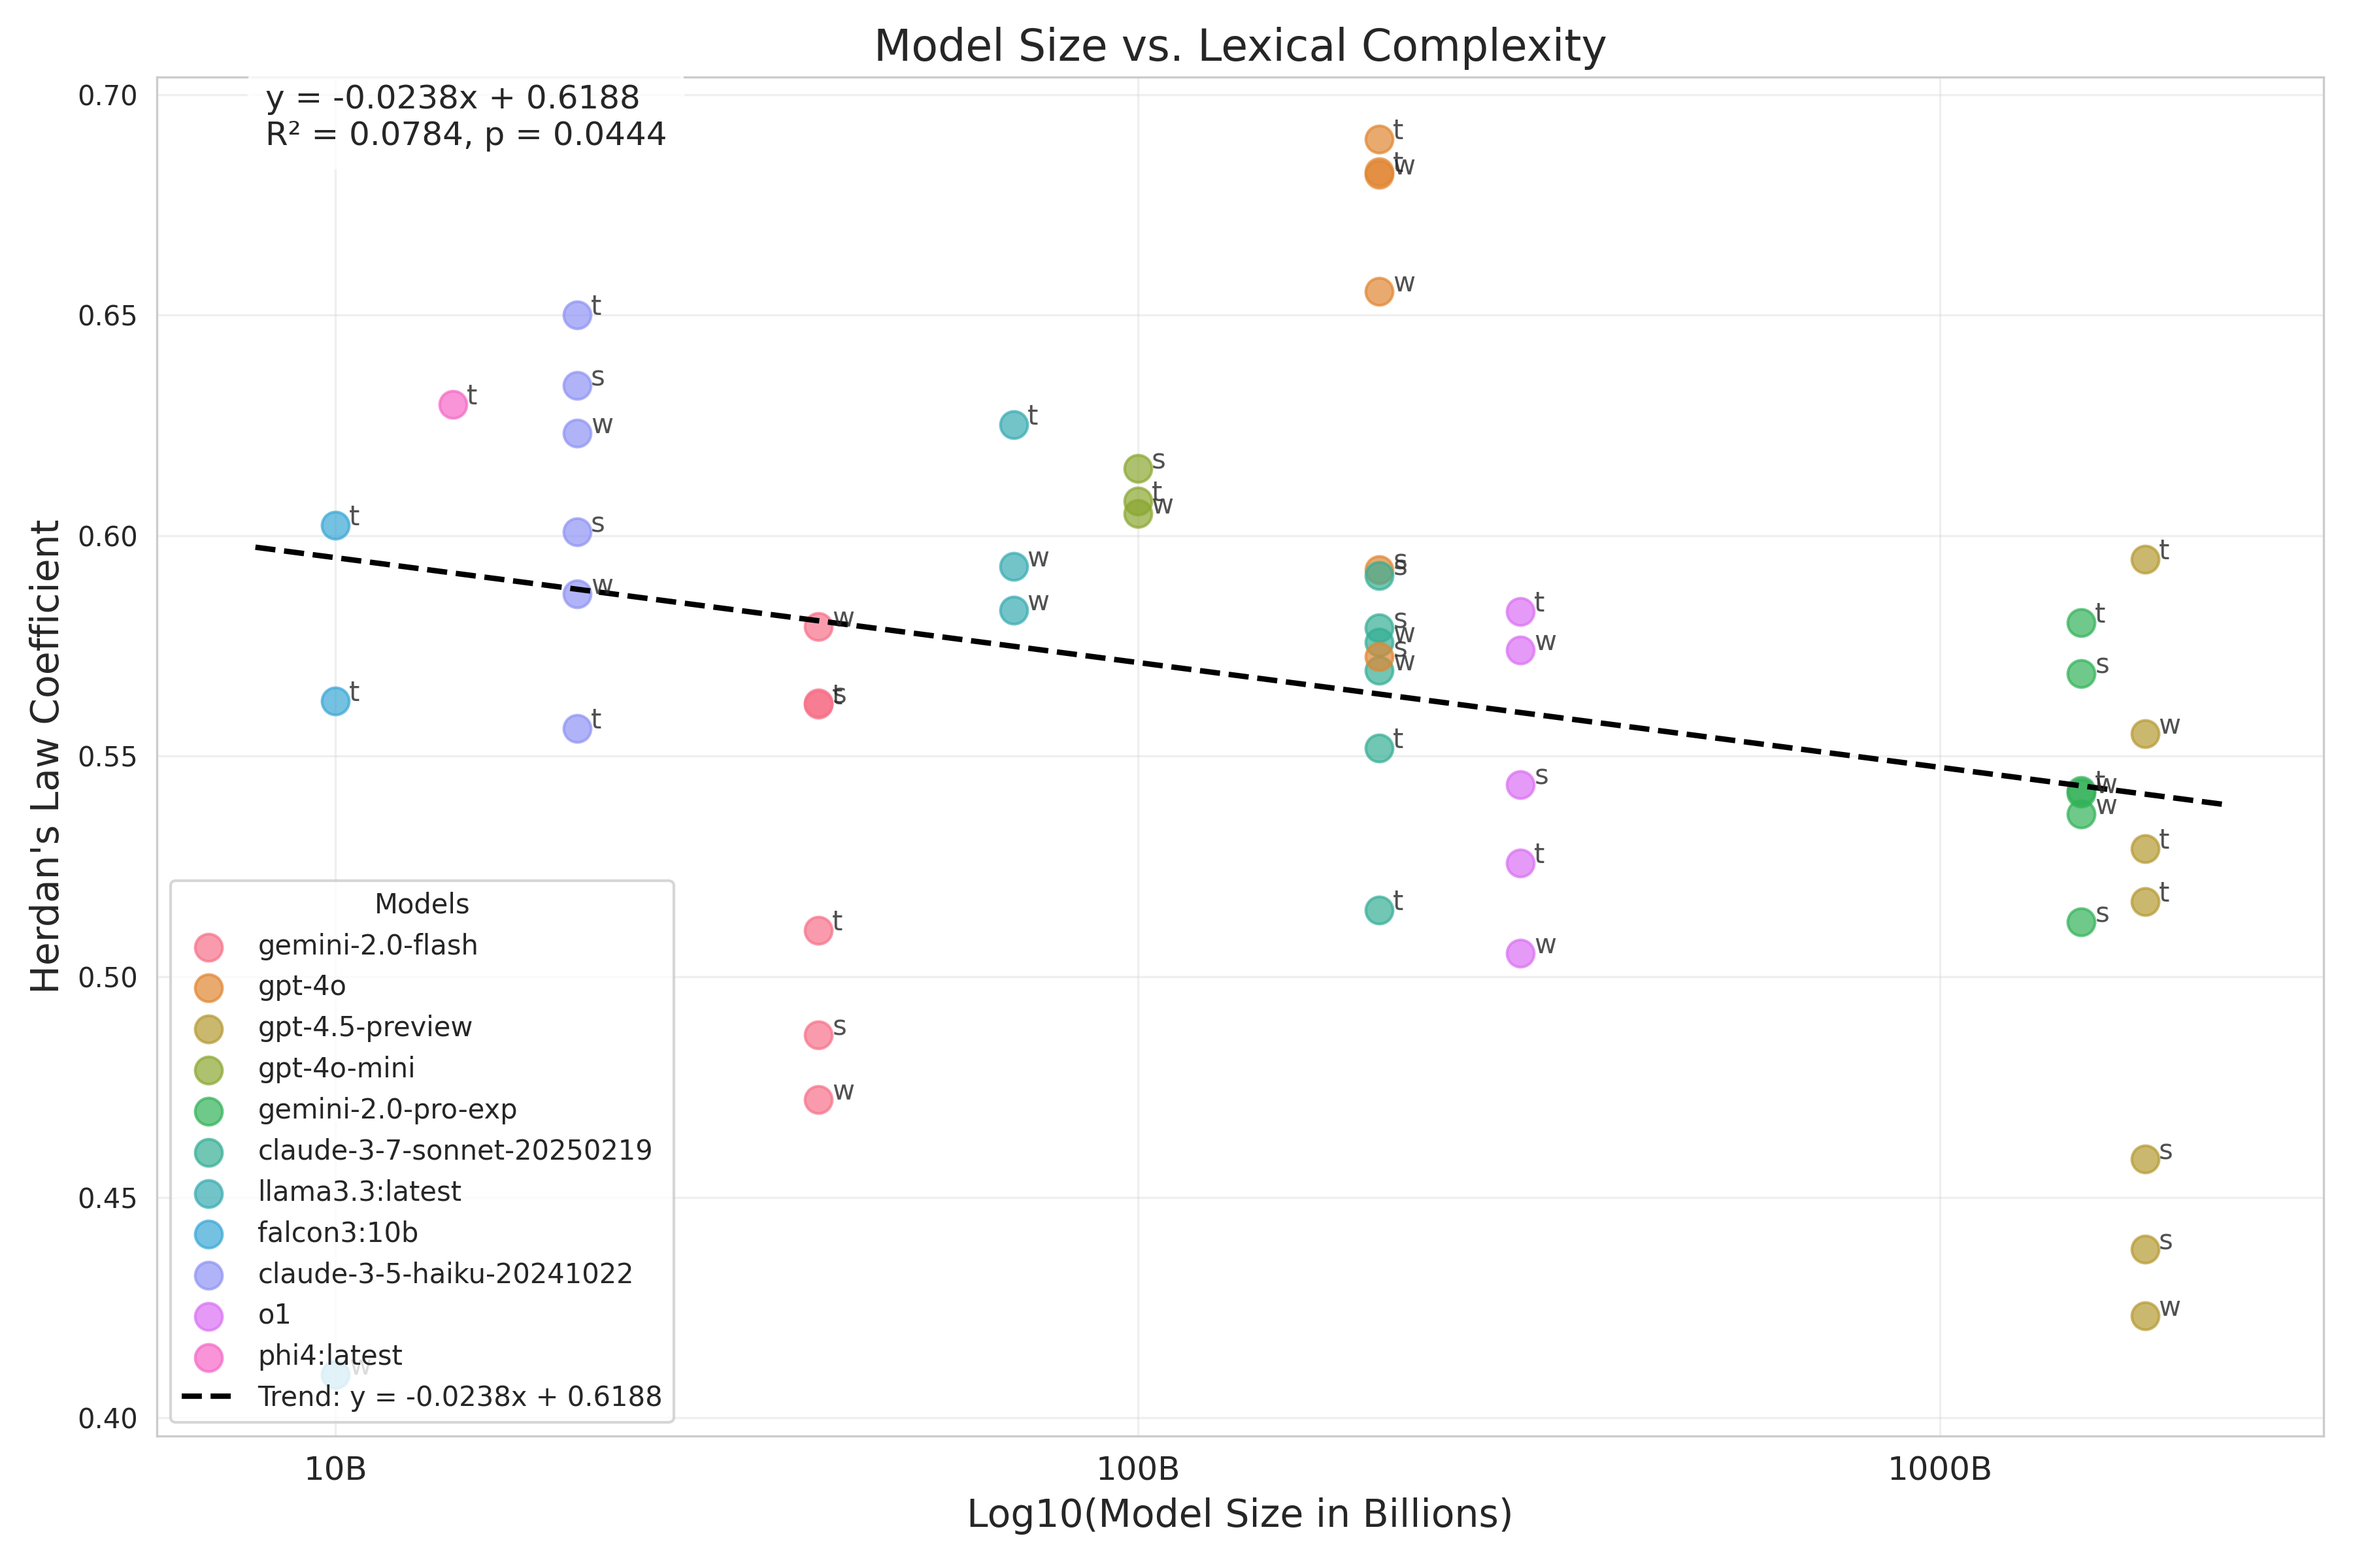
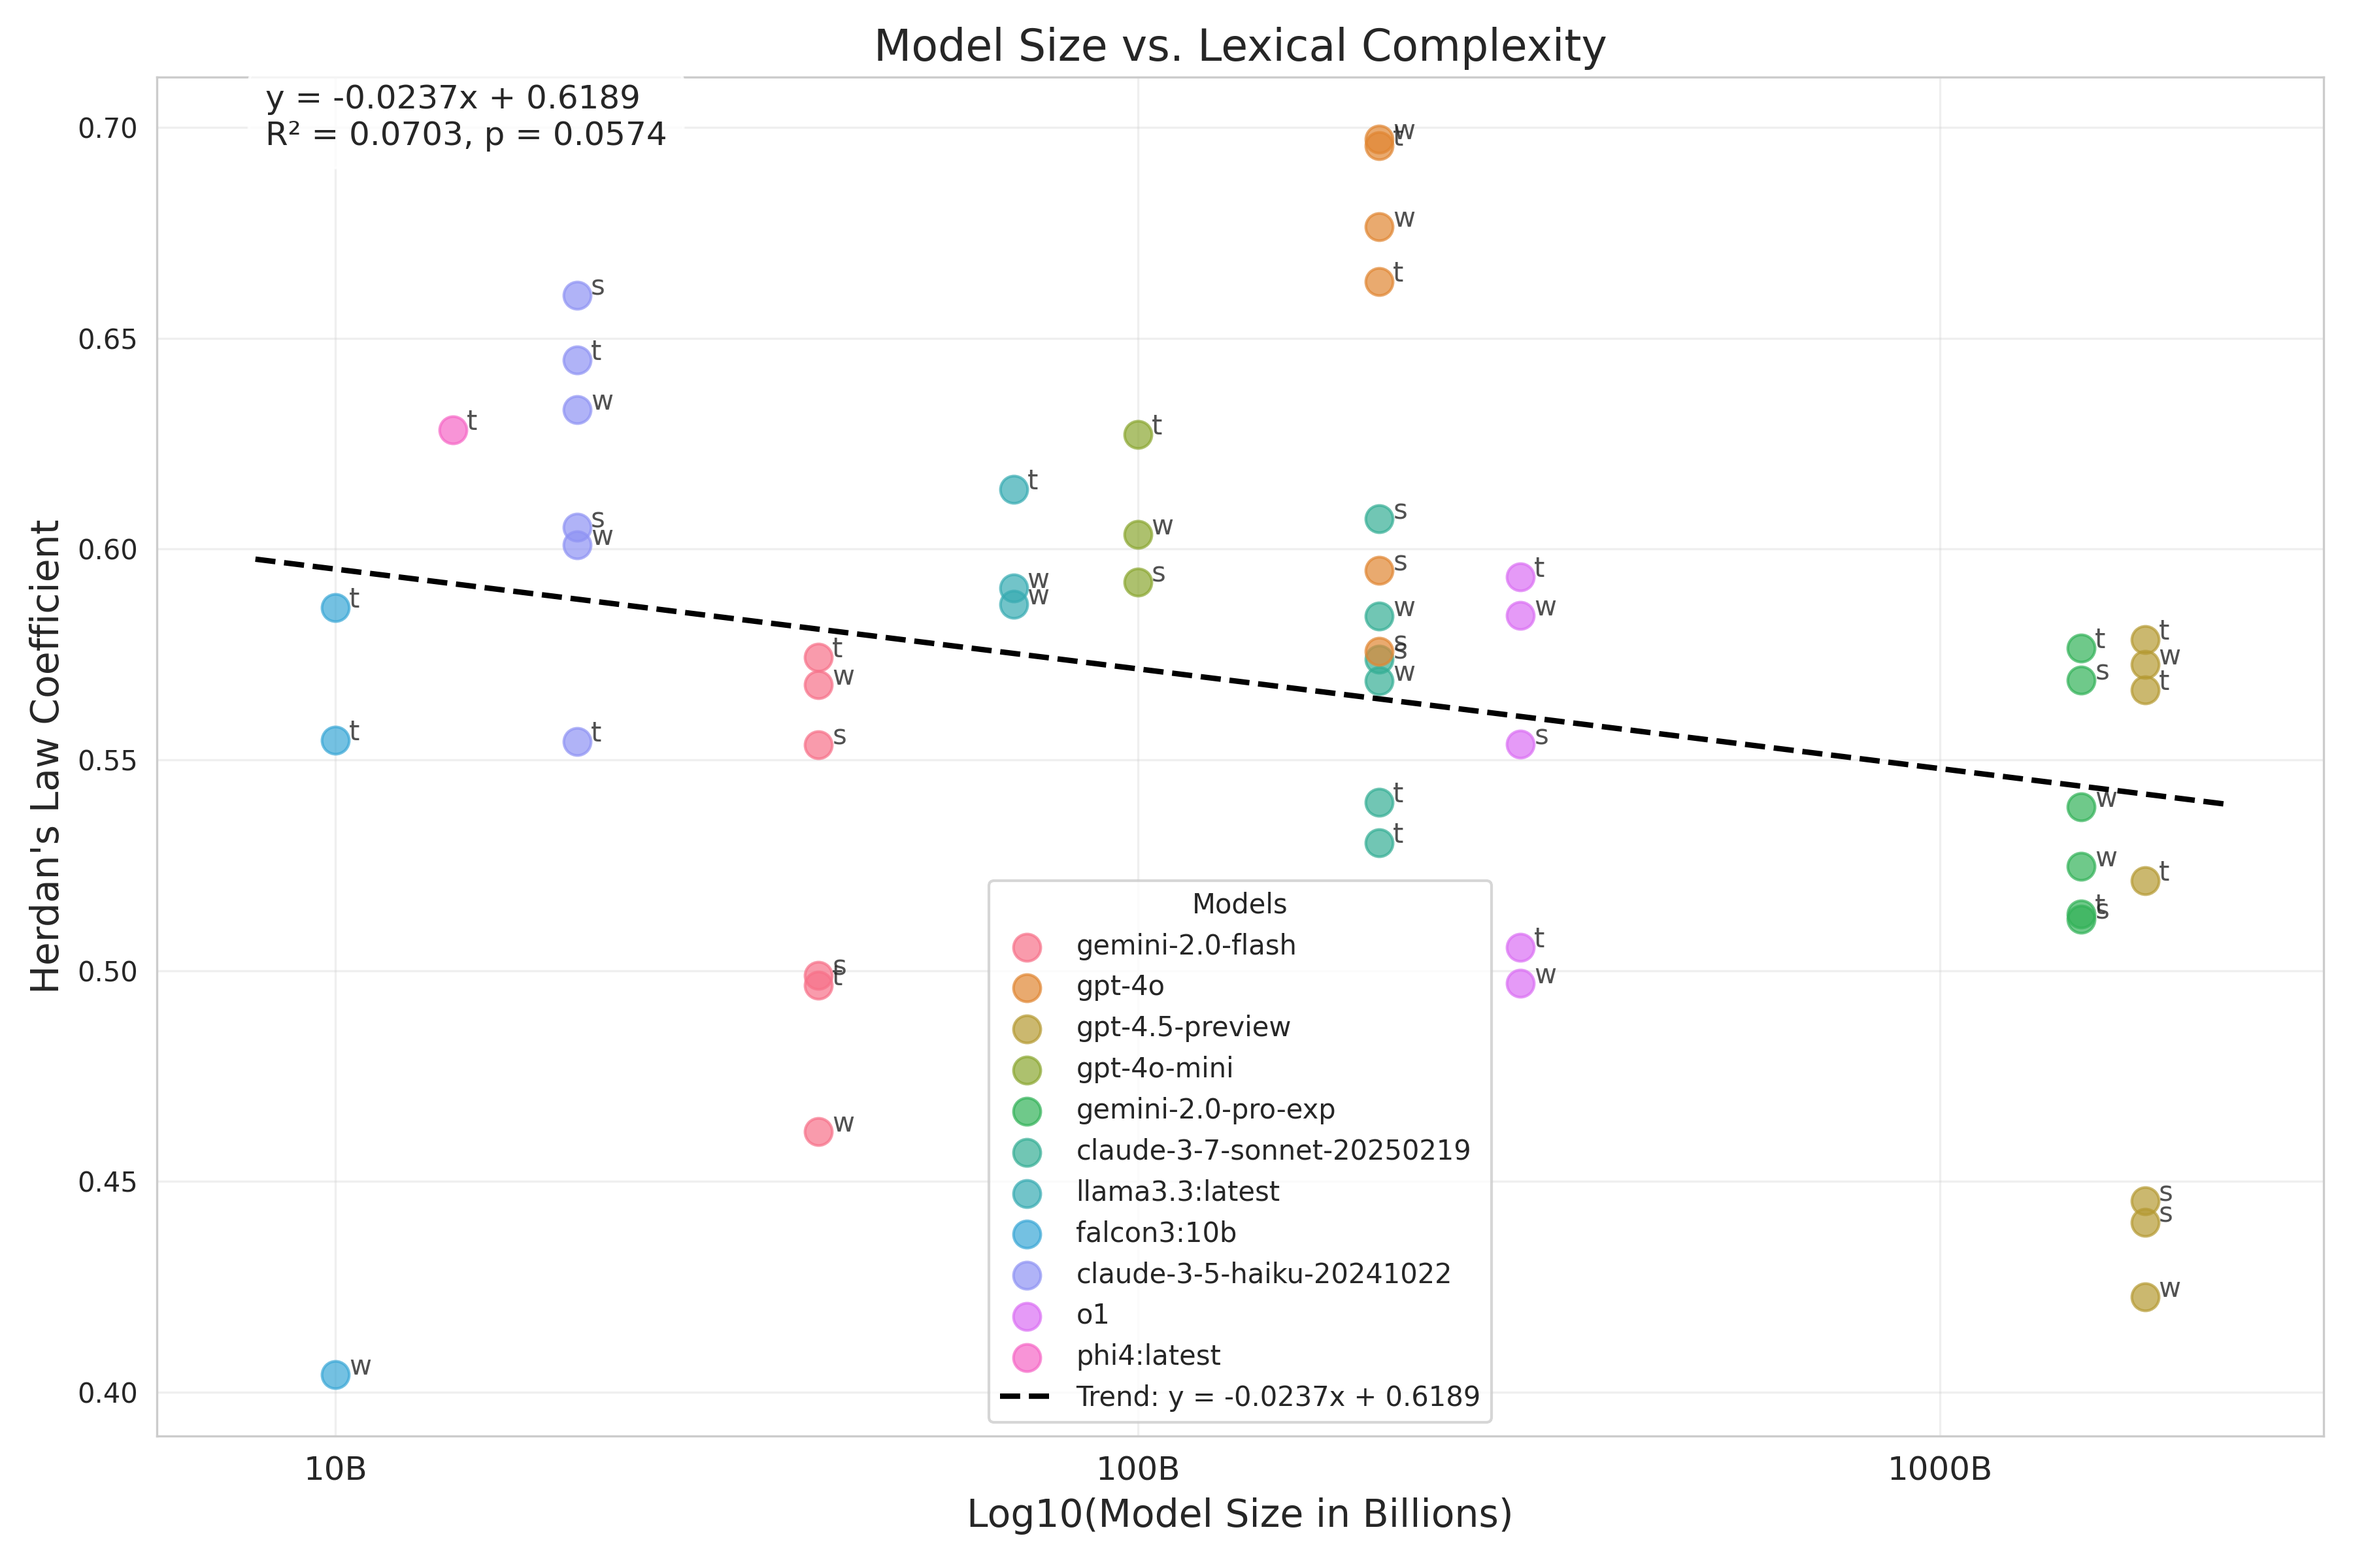
Latest experimental results

diff --git a/outputs/herdan-model-size-definitions.tex b/outputs/herdan-model-size-definitions.tex
@@ -1,3 +1,3 @@
 \newcommand{\herdansizetrend}{-0.024}
-\newcommand{\herdansizetrendpvalue}{0.044}
-\newcommand{\herdanaveragecorrelation}{0.45}
+\newcommand{\herdansizetrendpvalue}{0.057}
+\newcommand{\herdanaveragecorrelation}{0.42}

diff --git a/outputs/cumulativewc-model-size-definitions.tex b/outputs/cumulativewc-model-size-definitions.tex
@@ -1,0 +1,3 @@
+\newcommand{\cumulativewcsizetrend}{-63.415}
+\newcommand{\cumulativewcsizetrendpvalue}{0.221}
+\newcommand{\cumulativewcaveragecorrelation}{0.22}

diff --git a/outputs/reasoningwc-model-size-definitions.tex b/outputs/reasoningwc-model-size-definitions.tex
@@ -1,0 +1,3 @@
+\newcommand{\reasoningwcsizetrend}{-17.492}
+\newcommand{\reasoningwcsizetrendpvalue}{0.122}
+\newcommand{\reasoningwcaveragecorrelation}{0.35}

diff --git a/outputs/promptwc-model-size-definitions.tex b/outputs/promptwc-model-size-definitions.tex
@@ -1,0 +1,3 @@
+\newcommand{\promptwcsizetrend}{-15.026}
+\newcommand{\promptwcsizetrendpvalue}{0.693}
+\newcommand{\promptwcaveragecorrelation}{0.77}

diff --git a/outputs/southgermancredit_error_rate_by_herdan_slope.tex b/outputs/southgermancredit_error_rate_by_herdan_slope.tex
@@ -1,1 +1,1 @@
--0.233
+-0.206

diff --git a/outputs/southgermancredit_error_rate_by_herdan_pvalue.tex b/outputs/southgermancredit_error_rate_by_herdan_pvalue.tex
@@ -1,1 +1,1 @@
-0.309
+0.344

diff --git a/outputs/titanic_error_rate_by_herdan_pvalue.tex b/outputs/titanic_error_rate_by_herdan_pvalue.tex
@@ -1,1 +1,1 @@
-0.925
+0.894

diff --git a/outputs/titanic_error_rate_by_herdan_slope.tex b/outputs/titanic_error_rate_by_herdan_slope.tex
@@ -1,1 +1,1 @@
-0.036
+0.051

diff --git a/outputs/wisconsin_error_rate_by_herdan_pvalue.tex b/outputs/wisconsin_error_rate_by_herdan_pvalue.tex
@@ -1,1 +1,1 @@
-0.041
+0.037

diff --git a/outputs/wisconsin_error_rate_by_herdan_slope.tex b/outputs/wisconsin_error_rate_by_herdan_slope.tex
@@ -1,1 +1,1 @@
-1.364
+1.273
